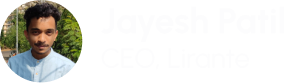
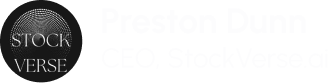
updating info

Changed region(s): [[0.0, 0.0, 0.3066, 1.0]]

diff --git a/src/Components/HomePageComponents/Testimonials.js b/src/Components/HomePageComponents/Testimonials.js
@@ -4,8 +4,12 @@ import './Testimonials.css';
 import hair3 from '../Images/hair3.png';
 import whitestar from '../Images/white star.png';
 import star from '../Images/Star.svg';
+import graystar from '../Images/grayStar.svg';
 import quotedown from '../Images/quote-down.png';
 import review1 from '../Images/testimonial-1.png';
+import review2 from '../Images/testimonial-2.png';
+import review3 from '../Images/testimonial-3.png';
+import review4 from '../Images/testimonial-4.png';
 import 'swiper/css/bundle';
 import { Swiper, SwiperSlide } from 'swiper/react';
 import { EffectCoverflow, Pagination, Autoplay } from 'swiper/modules';
@@ -41,7 +45,7 @@ const Testimonials = () => {
                 <img className="star1" src={whitestar} alt="logo"/>
                 <img className="star2" src={whitestar} alt="logo"/>
                 <h2>Testimonials That <br/> Speak to <span>My Results</span></h2>
-                <p>Lorem ipsum dolor sit amet, consectetur adipiscing elit. Sed congue interdum ligula a dignissim. Lorem ipsum dolor sit amet, consectetur adipiscing elit. Sed lobortis orci elementum egestas lobortis.</p>
+                <p>Discover what clients are saying about our exceptional services. From captivating animations to seamless responsiveness, our portfolio speaks volumes. Explore the testimonials below to see how we've transformed visions into stunning realities for satisfied clients.</p>
             </div>
             <Swiper
             {...testimonialsettings}
@@ -76,11 +80,11 @@ const Testimonials = () => {
                         <img src={star} alt="logo" />
                         <p>5.0</p>
                     </div>
-                    <p>consectetur adipiscing elit. Sed congue interdum ligula a dignissim. Lorem ipsum dolor sit amet, consectetur adipiscing elit. Sed lobortis orci elementum egestas lobortis.Sed lobortis orci elementum egestas lobortis.Sed lobortis orci elementum egestas lobortis.</p>
+                    <p>He is currently helping me build my website for stockverse.ai and was attentive to details in the beginning process</p>
                 </SwiperSlide>
                 <SwiperSlide className="testimonials-slide">
                     <img className="quote-down" src={quotedown} alt="quote"/>
-                    <img className="reviewer" src={review1} alt="logo" />
+                    <img className="reviewer" src={review2} alt="logo" />
                     <div className="rating">
                         <img src={star} alt="logo" />
                         <img src={star} alt="logo" />
@@ -89,11 +93,24 @@ const Testimonials = () => {
                         <img src={star} alt="logo" />
                         <p>5.0</p>
                     </div>
-                    <p>consectetur adipiscing elit. Sed congue interdum ligula a dignissim. Lorem ipsum dolor sit amet, consectetur adipiscing elit. Sed lobortis orci elementum egestas lobortis.Sed lobortis orci elementum egestas lobortis.Sed lobortis orci elementum egestas lobortis.</p>
+                    <p>Working with them on my website was an absolute pleasure! His expertise in creating stunning animations brought my vision to life in ways I couldn't have imagined. Not only did he deliver on the animations, but the site's responsiveness across devices is seamless. John's attention to detail and dedication to excellence truly shine through in his work. I highly recommend him to anyone looking for a top-notch web developer.</p>
                 </SwiperSlide>
                 <SwiperSlide className="testimonials-slide">
                     <img className="quote-down" src={quotedown} alt="quote"/>
-                    <img className="reviewer" src={review1} alt="logo" />
+                    <img className="reviewer" src={review3} alt="logo" />
+                    <div className="rating">
+                        <img src={star} alt="logo" />
+                        <img src={star} alt="logo" />
+                        <img src={star} alt="logo" />
+                        <img src={star} alt="logo" />
+                        <img src={graystar} alt="logo" />
+                        <p>4.0</p>
+                    </div>
+                    <p>They are true master of their craft! Their expertise in animation and responsive design transformed my website into a visually stunning and user-friendly experience. Throughout the development process, They were incredibly communicative and receptive to my feedback, ensuring that the final product met my expectations perfectly. I couldn't be happier with the results, and I've already seen an increase in engagement on my site since its launch. If you're searching for a developer who can elevate your online presence, They are the one to call!</p>
+                </SwiperSlide>
+                <SwiperSlide className="testimonials-slide">
+                    <img className="quote-down" src={quotedown} alt="quote"/>
+                    <img className="reviewer" src={review4} alt="logo" />
                     <div className="rating">
                         <img src={star} alt="logo" />
                         <img src={star} alt="logo" />
@@ -102,20 +119,7 @@ const Testimonials = () => {
                         <img src={star} alt="logo" />
                         <p>5.0</p>
                     </div>
-                    <p>consectetur adipiscing elit. Sed congue interdum ligula a dignissim. Lorem ipsum dolor sit amet, consectetur adipiscing elit. Sed lobortis orci elementum egestas lobortis.Sed lobortis orci elementum egestas lobortis.Sed lobortis orci elementum egestas lobortis.</p>
-                </SwiperSlide>
-                <SwiperSlide className="testimonials-slide">
-                    <img className="quote-down" src={quotedown} alt="quote"/>
-                    <img className="reviewer" src={review1} alt="logo" />
-                    <div className="rating">
-                        <img src={star} alt="logo" />
-                        <img src={star} alt="logo" />
-                        <img src={star} alt="logo" />
-                        <img src={star} alt="logo" />
-                        <img src={star} alt="logo" />
-                        <p>5.0</p>
-                    </div>
-                    <p>consectetur adipiscing elit. Sed congue interdum ligula a dignissim. Lorem ipsum dolor sit amet, consectetur adipiscing elit. Sed lobortis orci elementum egestas lobortis.Sed lobortis orci elementum egestas lobortis.Sed lobortis orci elementum egestas lobortis.</p>
+                    <p>I am beyond thrilled with the animation and responsive site that they created for me. From the initial concept discussions to the final product, their professionalism and creativity were evident every step of the way. Their ability to translate my ideas into captivating animations exceeded my expectations. The site looks fantastic on all devices, and I've received numerous compliments on its design. If you're in need of a talented web developer who can bring your vision to life, look no further than them!</p>
                 </SwiperSlide>
                 
             </Swiper>

diff --git a/src/Components/AboutpageComponents/WorkExperience.js b/src/Components/AboutpageComponents/WorkExperience.js
@@ -9,15 +9,15 @@ const WorkExperince = () => {
 
     return (
         <div className="work-experience">
-            <h2><span className="span1">My</span> <span>Work Experince</span></h2>
+            <h2><span className="span1">Our</span> <span>Work Expertise</span></h2>
             <div className="content">
                 <div className="row">
                     <div className="left">
-                        <h3>Cognizant, Mumbai</h3>
-                        <p className="timeline">Sep 2016- July 2020</p>
+                        <h3>Animation Websites</h3>
+                        <p className="timeline">Bringing Your Brand to Life</p>
                     </div>
                     <div className="right">
-                        <p>Lorem ipsum dolor sit amet, consectetur adipiscing elit. Duis lacus nunc, posuere in justo vulputate, bibendum sodales </p>
+                        <p>Elevate your online presence with our expertise in animation websites. From eye-catching motion graphics to fluid transitions, we specialize in creating immersive digital experiences that captivate and engage visitors. Let us bring your brand to life with dynamic visuals and seamless user interactions, setting your website apart in the digital realm.</p>
                     </div>
                     <div className="dot">
                         <img src={orangedot} alt="logo" />
@@ -26,11 +26,11 @@ const WorkExperince = () => {
                 </div>
                 <div className="row">
                     <div className="left">
-                        <h3>Sugee Pvt limited, Mumbai</h3>
-                        <p className="timeline">Sep 2016- July 2020</p>
+                        <h3>Glassmophim Sites</h3>
+                        <p className="timeline">Crafting Cinematic Digital Spaces</p>
                     </div>
                     <div className="right">
-                        <p>Lorem ipsum dolor sit amet, consectetur adipiscing elit. Duis lacus nunc, posuere in justo vulputate, bibendum sodales </p>
+                        <p>Step into the realm of Glassmophim with our specialized website designs. Combining innovative layouts with stunning visuals, we create immersive online experiences that showcase your content in its best light. Whether you're a filmmaker, artist, or content creator, trust us to transform your vision into a captivating digital platform.</p>
                     </div>
                     <div className="dot">
                         <img src={darkdot} alt="logo" />
@@ -39,11 +39,11 @@ const WorkExperince = () => {
                 </div>
                 <div className="row">
                     <div className="left">
-                        <h3>Cinetstox, Mumbai</h3>
-                        <p className="timeline">Sep 2016- July 2020</p>
+                        <h3>CryptoCoin (Meme Coin) Websites</h3>
+                        <p className="timeline">Navigating the Crypto Craze</p>
                     </div>
                     <div className="right">
-                        <p>Lorem ipsum dolor sit amet, consectetur adipiscing elit. Duis lacus nunc, posuere in justo vulputate, bibendum sodales </p>
+                        <p>Dive into the world of cryptocurrency with our expertise in crafting captivating websites for meme coins. With a keen understanding of the crypto community's preferences, we deliver visually striking designs and seamless functionality tailored to your coin's unique identity. Trust us to elevate your online presence in the competitive crypto landscape.</p>
                     </div>
                     <div className="dot">
                         <img src={orangedot} alt="logo" />

diff --git a/src/Containers/Services/Service.js b/src/Containers/Services/Service.js
@@ -3,11 +3,12 @@ import '../../index.css';
 import { Link } from "react-router-dom";
 import Slideimage from '../../Components/Images/slide-img.jpg';
 import service1 from '../../Components/Images/service1.jpeg';
-import service2 from '../../Components/Images/service2.jpg';
+import service2 from '../../Components/Images/service2.jpeg';
 import service3 from '../../Components/Images/service3.jpeg';
-import service4 from '../../Components/Images/bitcoin.jpg';
-import service5 from '../../Components/Images/nfa2.0.jpg';
-import service6 from '../../Components/Images/service4.webp';
+import service4 from '../../Components/Images/service4.jpeg';
+import service5 from '../../Components/Images/service5.jpeg';
+import service6 from '../../Components/Images/service6.jpeg';
+import service7 from '../../Components/Images/service7.jpeg';
 import arrow from '../../Components/Images/arrow up right.svg';
 import nugget1 from '../../Components/Images/nugget1.png';
 import nugget2 from '../../Components/Images/nugget2.png';
@@ -28,7 +29,7 @@ const Service = () => {
             spaceBetween:80, // 2 slides per view on screens >= 0px
           },
           300: {
-            slidesPerView: 1.4,
+            slidesPerView: 1.1,
             spaceBetween:25, // 2 slides per view on screens >= 300px
           },
           600: {
@@ -40,7 +41,7 @@ const Service = () => {
             spaceBetween:50, // 3 slides per view on screens >= 980px
           },
           1600: {
-            slidesPerView: 4,
+            slidesPerView: 3.5,
             spaceBetween:50, // 3 slides per view on screens >= 1600px
           },
         },
@@ -125,7 +126,7 @@ const Service = () => {
                         <div className="content">
                             <div className="drop1 scale"></div>
                             <div className="drop2 scale"></div>
-                            <img className="service-img scale" src={Slideimage} alt="logo"/>
+                            <img className="service-img scale" src={service5} alt="logo"/>
                             <img className="arrow" src={arrow} alt="logo"/>
                         </div>
                     </Link>
@@ -138,7 +139,7 @@ const Service = () => {
                         <div className="content">
                             <div className="drop1 scale"></div>
                             <div className="drop2 scale"></div>
-                            <img className="service-img scale" src={service5} alt="logo"/>
+                            <img className="service-img scale" src={service6} alt="logo"/>
                             <img className="arrow" src={arrow} alt="logo"/>
                         </div>
                     </Link>
@@ -151,7 +152,7 @@ const Service = () => {
                         <div className="content">
                             <div className="drop1 scale"></div>
                             <div className="drop2 scale"></div>
-                            <img className="service-img scale" src={service6} alt="logo"/>
+                            <img className="service-img scale" src={service7} alt="logo"/>
                             <img className="arrow" src={arrow} alt="logo"/>
                         </div>
                     </Link>

diff --git a/src/Components/HomePageComponents/Services.js b/src/Components/HomePageComponents/Services.js
@@ -3,11 +3,12 @@ import '../../index.css';
 import { Link } from "react-router-dom";
 import Slideimage from '../Images/slide-img.jpg';
 import service1 from '../Images/service1.jpeg';
-import service2 from '../Images/service2.jpg';
+import service2 from '../Images/service2.jpeg';
 import service3 from '../Images/service3.jpeg';
-import service4 from '../Images/bitcoin.jpg';
-import service5 from '../Images/nfa2.0.jpg';
-import service6 from '../Images/service4.webp';
+import service4 from '../Images/service4.jpeg';
+import service5 from '../Images/service5.jpeg';
+import service6 from '../Images/service6.jpeg';
+import service7 from '../Images/service7.jpeg';
 import arrow from '../Images/arrow up right.svg';
 import nugget1 from '../Images/nugget1.png';
 import nugget2 from '../Images/nugget2.png';
@@ -27,7 +28,7 @@ const Services = () => {
             spaceBetween:80, // 2 slides per view on screens >= 0px
           },
           300: {
-            slidesPerView: 1.4,
+            slidesPerView: 1.1,
             spaceBetween:25, // 2 slides per view on screens >= 300px
           },
           600: {
@@ -39,7 +40,7 @@ const Services = () => {
             spaceBetween:50, // 3 slides per view on screens >= 980px
           },
           1600: {
-            slidesPerView: 4,
+            slidesPerView: 3.5,
             spaceBetween:50, // 3 slides per view on screens >= 1600px
           },
         },
@@ -125,7 +126,7 @@ const Services = () => {
                         <div className="content">
                             <div className="drop1 scale"></div>
                             <div className="drop2 scale"></div>
-                            <img className="service-img scale" src={Slideimage} alt="logo"/>
+                            <img className="service-img scale" src={service5} alt="logo"/>
                             <img className="arrow" src={arrow} alt="logo"/>
                         </div>
                     </Link>
@@ -138,7 +139,7 @@ const Services = () => {
                         <div className="content">
                             <div className="drop1 scale"></div>
                             <div className="drop2 scale"></div>
-                            <img className="service-img scale" src={service5} alt="logo"/>
+                            <img className="service-img scale" src={service6} alt="logo"/>
                             <img className="arrow" src={arrow} alt="logo"/>
                         </div>
                     </Link>
@@ -151,7 +152,7 @@ const Services = () => {
                         <div className="content">
                             <div className="drop1 scale"></div>
                             <div className="drop2 scale"></div>
-                            <img className="service-img scale" src={service6} alt="logo"/>
+                            <img className="service-img scale" src={service7} alt="logo"/>
                             <img className="arrow" src={arrow} alt="logo"/>
                         </div>
                     </Link>

diff --git a/src/Components/HomePageComponents/Services.css b/src/Components/HomePageComponents/Services.css
@@ -131,7 +131,7 @@
     position: absolute;
     width: 90%;
     border-radius: 2vw;
-    height: 15.7vw;
+    height: 20.7vw;
     background: #9E9D9D;
     z-index: 2;
     transition: all .2s;
@@ -142,7 +142,7 @@
     position: absolute;
     width: 80%;
     border-radius: 2vw;
-    height: 16.5vw;
+    height: 21.5vw;
     opacity: .5;
     background: #757575;
     z-index: 2;
@@ -152,8 +152,8 @@
   
 .swiper-slide .service-img {
     width: 100%;
-    height: 15vw;
-    margin-top: 5vw;
+    height: 20vw;
+    margin-top: 4vw;
     margin-bottom: -.4vw;
     border-radius: 2vw;
     z-index: 3;
@@ -213,15 +213,15 @@
 }
 
 .services-slide .content .drop1 {
-    height: 21vw;
+    height: 25vw;
 }
 
 .services-slide .content .drop2 {
-    height: 20vw;
+    height: 24vw;
 }
   
 .swiper-slide .service-img {
-    height: 19vw;
+    height: 23vw;
     margin-top: 7vw;
 }
 }
@@ -293,17 +293,17 @@
 
 
 .services-slide .content .drop1 {
-    height: 34vw;
+    height: 37vw;
     border-radius: 3.5vw;
 }
 
 .services-slide .content .drop2 {
-    height: 32vw;
+    height: 35vw;
     border-radius: 3.5vw;
 }
   
 .swiper-slide .service-img {
-    height: 30vw;
+    height: 33vw;
     border-radius: 3.5vw;
     margin-top: 11vw;
 }
@@ -386,17 +386,17 @@
 
 
 .services-slide .content .drop1 {
-    height: 51vw;
+    height: 73vw;
     border-radius: 5vw;
 }
 
 .services-slide .content .drop2 {
-    height: 48vw;
+    height: 69vw;
     border-radius: 5vw;
 }
   
 .swiper-slide .service-img {
-    height: 45vw;
+    height: 65vw;
     border-radius: 5vw;
     margin-top: 18vw;
 }

diff --git a/src/Components/AboutpageComponents/WhyHire.js b/src/Components/AboutpageComponents/WhyHire.js
@@ -47,12 +47,12 @@ const WhyHire = () => {
                 </p>
                 <div className="achievements">
                     <div className="left">
-                        <h3>450+</h3>
+                        <h3>350+</h3>
                         <p>Project Completed</p>
                     </div>
                     <div className="left">
-                        <h3>450+</h3>
-                        <p>Project Completed</p>
+                        <h3>200+</h3>
+                        <p>Crypto Coin Projects</p>
                     </div>
                 </div>
                 <a onMouseEnter={hireMe} onMouseLeave={notMe}

diff --git a/src/Components/HomePageComponents/Testimonials.css b/src/Components/HomePageComponents/Testimonials.css
@@ -32,7 +32,7 @@
 .testimonials .star2 {
     position: absolute;
     top: 10.7vw;
-    left: 27.5vw;
+    left: 26vw;
     width: 1.5vw;
 }
 
@@ -165,7 +165,7 @@
 
 .testimonials .star2 {
     top: 12.5vw;
-    left: 22.5vw;
+    left: 18.5vw;
     width: 2vw;
 }
 
@@ -252,7 +252,7 @@
     }
     
     .testimonials .star2 {
-        top: 30vw;
+        top: 37vw;
         left: 5vw;
         width: 5vw;
     }
